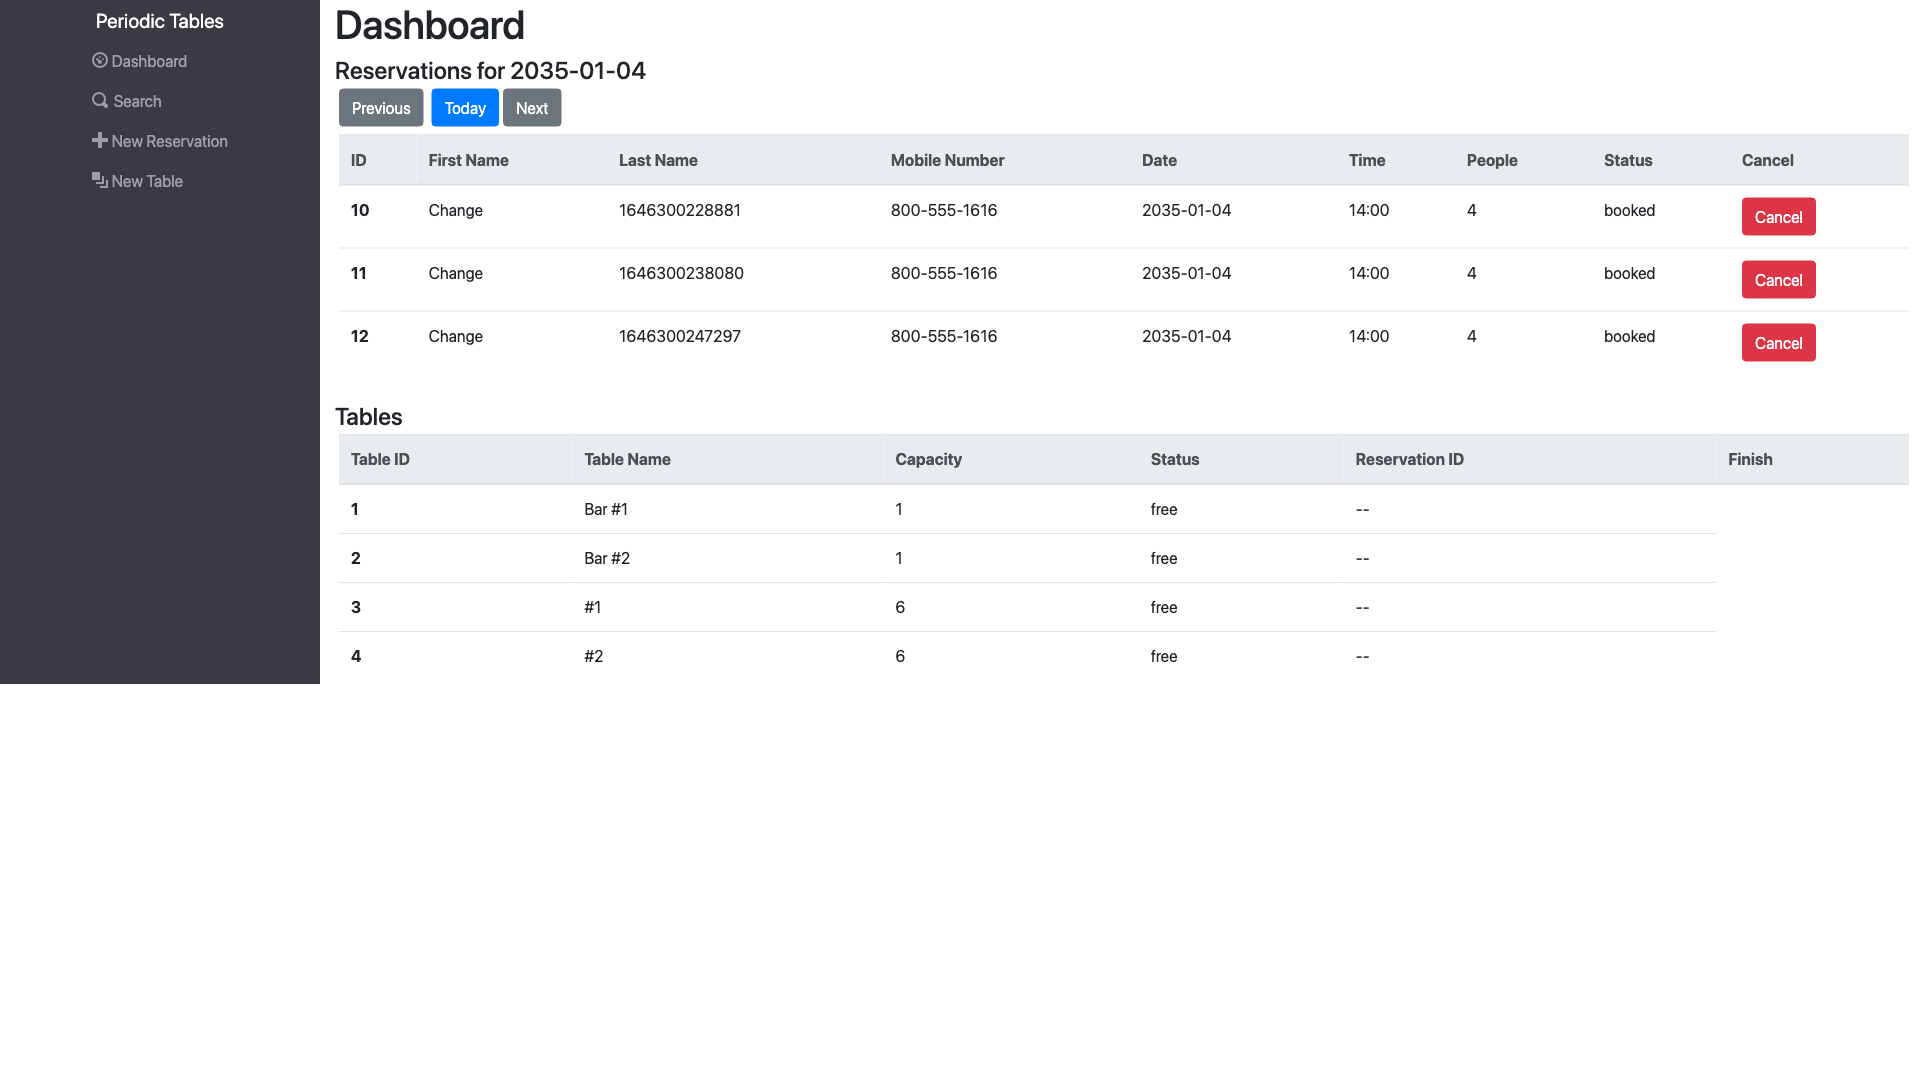
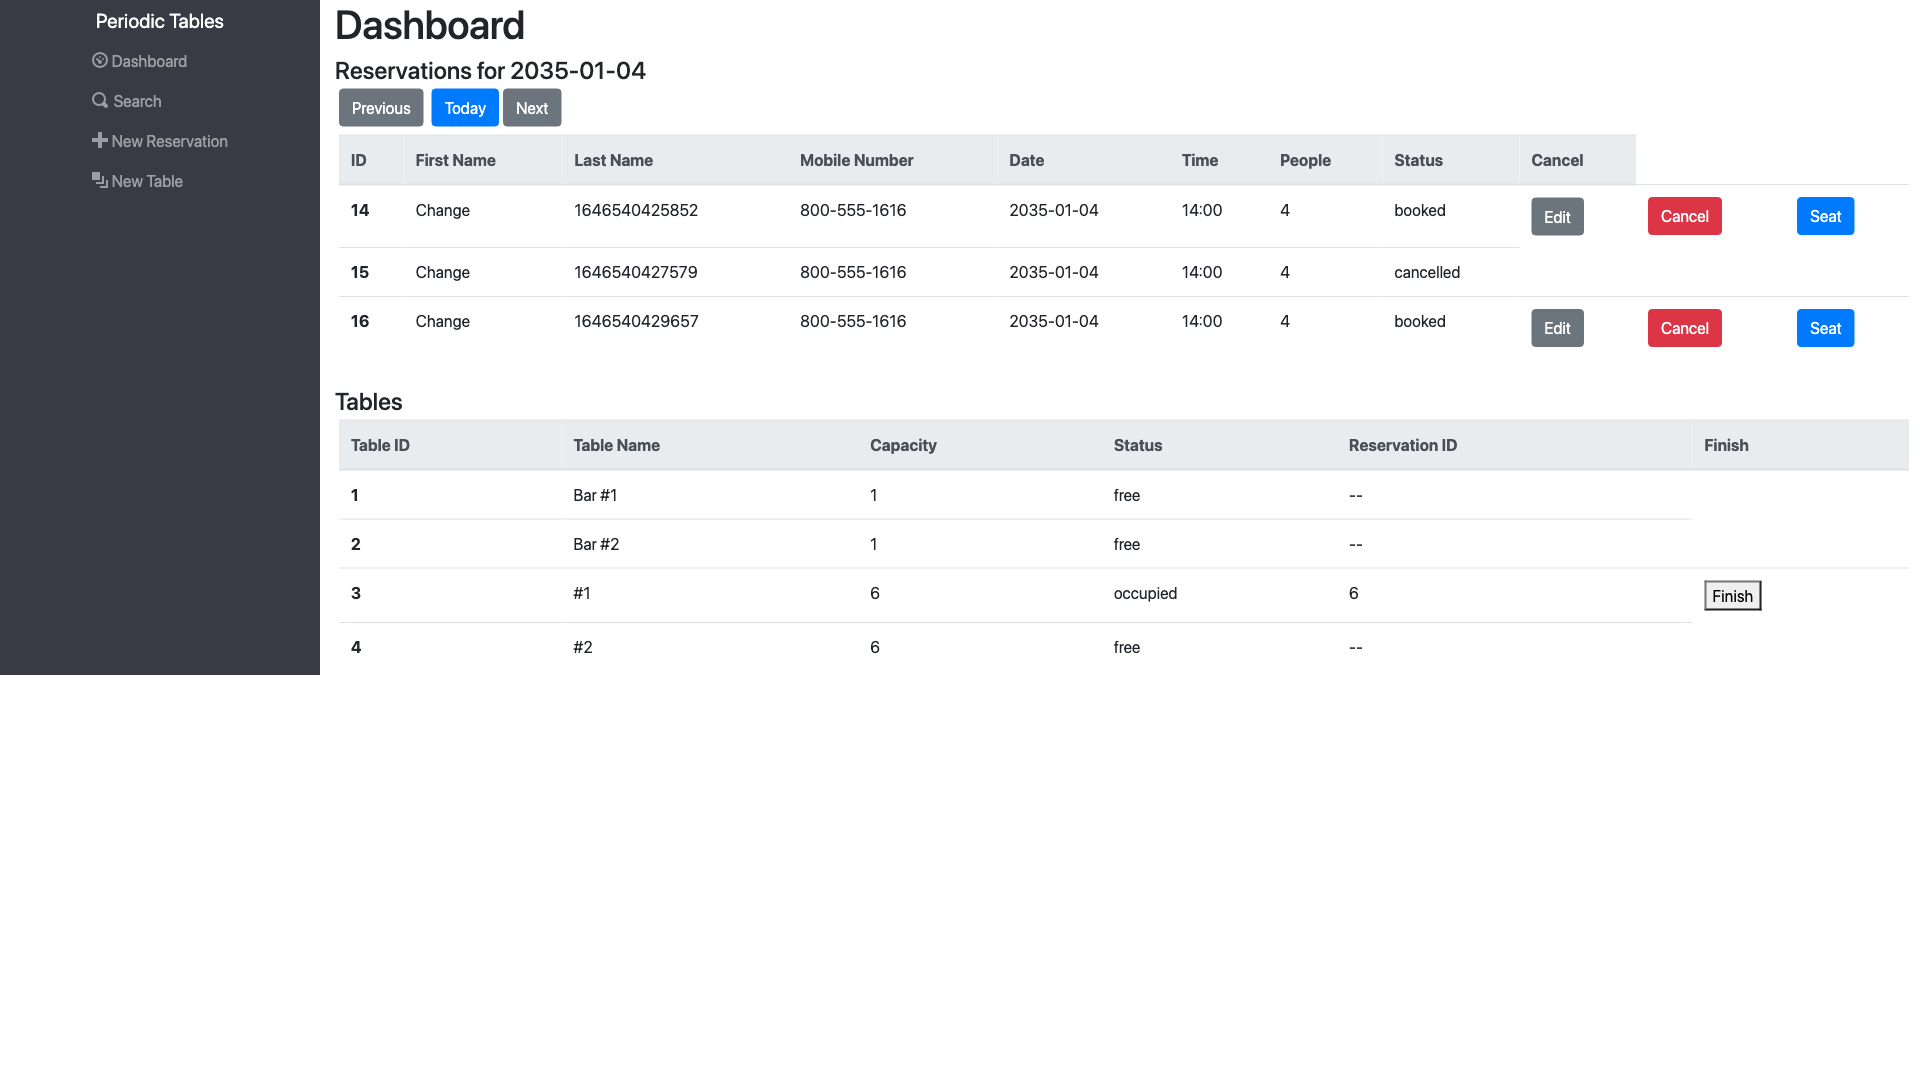
visual fixes and moving to production

diff --git a/src/search/Search.js b/src/search/Search.js
@@ -1,0 +1,92 @@
+import React, { useState } from "react";
+import { listReservations } from "../utils/api";
+import ErrorAlert from "../layout/ErrorAlert";
+import ReservationRow from "../dashboard/ReservationRow";
+
+export default function Search() {
+  const [mobileNumber, setMobileNumber] = useState("");
+  const [reservations, setReservations] = useState([]);
+  const [error, setError] = useState(null);
+
+  function handleInputChange({ target }) {
+    setMobileNumber(target.value);
+  }
+
+  function handleSubmit(event) {
+    event.preventDefault();
+
+    const abortController = new AbortController();
+
+    setError(null);
+
+    listReservations({ mobile_number: mobileNumber }, abortController.signal)
+      .then(setReservations)
+      .catch(setError);
+
+    return () => abortController.abort();
+  }
+
+  const searchResultsJSX = () => {
+    return reservations.length > 0 ? (
+      reservations.map((reservation) => (
+        <ReservationRow
+          key={reservation.reservation_id}
+          reservation={reservation}
+        />
+      ))
+    ) : (
+      <tr>
+        <td>No reservations found</td>
+      </tr>
+    );
+  };
+
+  return (
+    <>
+      <form>
+        <ErrorAlert error={error} />
+
+        <label className="form-label" htmlFor="mobile_number">
+          Enter a customer's mobile number
+        </label>
+        <input
+          className="form-control"
+          name="mobile_number"
+          id="mobile_number"
+          type="tel"
+          onChange={handleInputChange}
+          value={mobileNumber}
+          required
+        />
+
+        <button
+          className="btn btn-primary m-1"
+          type="submit"
+          onClick={handleSubmit}
+        >
+          Find
+        </button>
+      </form>
+
+      <table className="table table-hover m-1">
+        <thead className="thead-light">
+          <tr>
+            <th scope="col">ID</th>
+            <th scope="col">First Name</th>
+            <th scope="col">Last Name</th>
+            <th scope="col">Mobile Number</th>
+            <th scope="col">Date</th>
+            <th scope="col">Time</th>
+            <th scope="col">People</th>
+            <th scope="col">Status</th>
+            <th scope="col">Edit</th>
+            <th scope="col">Cancel</th>
+            <th scope="col">Seat</th>
+          </tr>
+        </thead>
+
+        <tbody>{searchResultsJSX()}</tbody>
+      </table>
+    </>
+  );
+}

diff --git a/src/layout/Routes.js b/src/layout/Routes.js
@@ -1,11 +1,11 @@
 import React, { useState, useEffect } from "react";
-
 import { Redirect, Route, Switch } from "react-router-dom";
 import Dashboard from "../dashboard/Dashboard";
 import NewReservation from "../reservations/NewReservation";
 import NewTable from "../tables/NewTable";
-import NotFound from "./NotFound";
 import SeatReservation from "../reservations/SeatReservation";
+import Search from "../search/Search";
+import NotFound from "./NotFound";
 import { listReservations, listTables } from "../utils/api";
 import useQuery from "../utils/useQuery";
 import { today } from "../utils/date-time";
@@ -39,7 +39,9 @@ function Routes() {
       .catch(setReservationsError);
 
     listTables(abortController.signal)
-      .then((tables) => tables.sort((tableA, tableB) => tableA.table_id - tableB.table_id))
+      .then((tables) =>
+        tables.sort((tableA, tableB) => tableA.table_id - tableB.table_id)
+      )
       .then(setTables)
       .catch(setTablesError);
 
@@ -68,19 +70,23 @@ function Routes() {
       </Route>
 
       <Route path="/reservations/new">
-        <NewReservation loadDashboard={loadDashboard}/>
+        <NewReservation loadDashboard={loadDashboard} />
       </Route>
 
       <Route path="/reservations/:reservation_id/edit">
-        <NewReservation loadDashboard={loadDashboard} edit={true}/>
+        <NewReservation loadDashboard={loadDashboard} edit={true} />
       </Route>
 
       <Route path="/reservations/:reservation_id/seat">
-        <SeatReservation tables={tables} loadDashboard={loadDashboard}/>
+        <SeatReservation tables={tables} loadDashboard={loadDashboard} />
       </Route>
 
       <Route path="/tables/new">
-        <NewTable loadDashboard={loadDashboard}/>
+        <NewTable loadDashboard={loadDashboard} />
+      </Route>
+
+      <Route path="/search">
+        <Search />
       </Route>
 
       <Route>

diff --git a/src/reservations/NewReservation.js b/src/reservations/NewReservation.js
@@ -46,6 +46,7 @@ export default function NewReservation({ loadDashboard, edit }) {
       }
 
       const date = new Date(foundReservation.reservation_date);
+      console.log(date)
       const dateString = `${date.getFullYear()}-${(
         "0" +
         (date.getMonth() + 1)
@@ -79,6 +80,7 @@ export default function NewReservation({ loadDashboard, edit }) {
       [target.name]:
         target.name === "people" ? Number(target.value) : target.value,
     });
+    console.log(formData.reservation_date)
   }
 
   /**

diff --git a/src/dashboard/TableRow.js b/src/dashboard/TableRow.js
@@ -10,7 +10,7 @@ export default function TableRow({ table, loadDashboard }) {
   function handleFinish() {
     if (
       window.confirm(
-        "is this table ready to seat new guests? This cannot be undone."
+        "Is this table ready to seat new guests? This cannot be undone."
       )
     ) {
       const abortController = new AbortController();

diff --git a/src/dashboard/Dashboard.js b/src/dashboard/Dashboard.js
@@ -105,7 +105,9 @@ function Dashboard({
             <th scope="col">Time</th>
             <th scope="col">People</th>
             <th scope="col">Status</th>
+            <th scope="col">Edit</th>
             <th scope="col">Cancel</th>
+            <th scope="col">Seat</th>
           </tr>
         </thead>
 
